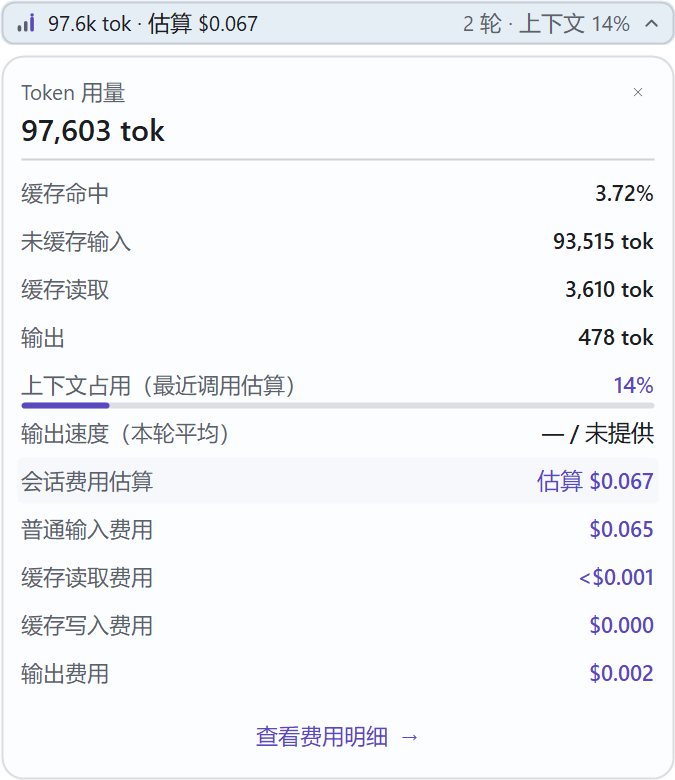
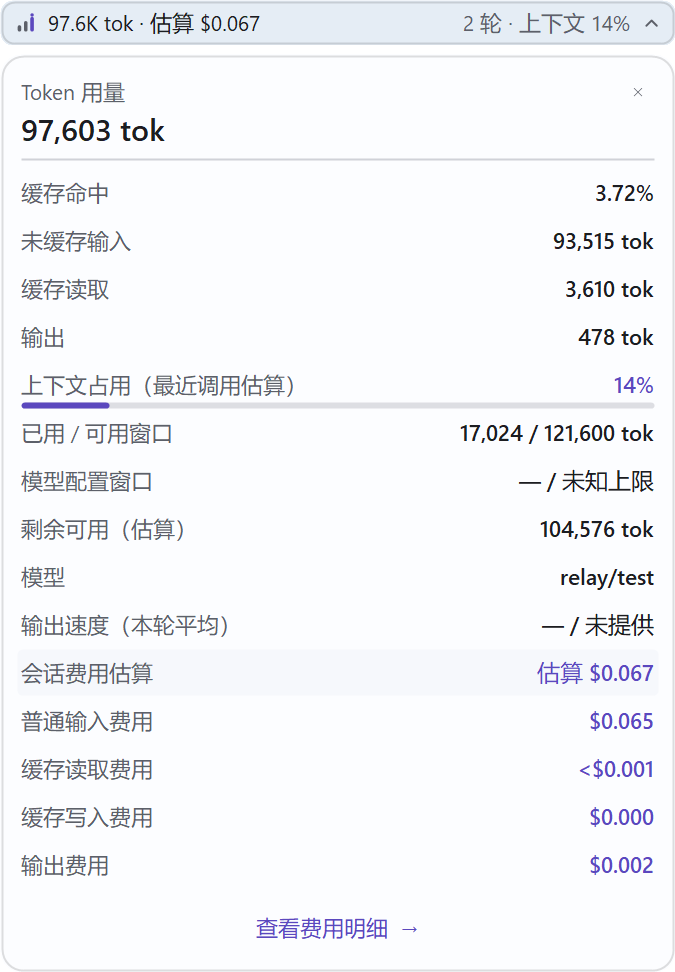
docs: record the 1.3.12 delivery verification and local deployment
The acceptance record now covers the context-window feature end to end: the
baseline (5c12bfa) self-test at 557 checks against 604 after the change, the
live and toolbar probe deltas, the full 848-check release verification, the
rollback rehearsal (revert applies clean and reproduces the baseline tree byte
for byte), the artifact hashes and the local deployment state. The deployment
note now names the current entry version, and the verification guide gains the
packaging pitfall that cost one publish run: a package directory left behind by
an interrupted publish makes the incremental dotnet publish skip the scripts/
content next to the EXE, which Verify's startup check catches, so a re-publish
starts from a removed directory.

Previews were regenerated by the release packaging and now show the context
block in the expanded and cost panels plus the overview board.

The release is local only: nothing was pushed, tagged or published to GitHub.

Changed region(s): [[0.0, 0.0, 1.0, 0.9231], [0.3733, 0.9231, 0.5911, 0.9846]]

diff --git a/ACCEPTANCE.zh-CN.md b/ACCEPTANCE.zh-CN.md
@@ -1,6 +1,21 @@
 # 交付验证记录
 
-版本 1.3.10，Windows x64，2026-10-12。以下区分本次检查、历史版本记录，以及待实际操作的场景。
+版本 1.3.12，Windows x64，2026-10-12。以下区分本次检查、历史版本记录，以及待实际操作的场景。
+
+## 1.3.12 上下文用量完整块与可用窗口的目录回退
+
+本地日志里的 `model_context_window` 只覆盖一部分中转模型：缺失或记录为零时，悬浮条此前显示“未知上限”，占比与剩余都不可用，也无从知道占比除以的是哪个上限。本轮补全上下文块，并在日志没有窗口时按完整模型 ID 从当前数据根的模型目录推导；同时按 2026-10-12 的核实结论修正口径——日志窗口已经是有效窗口（1M 目录模型实测报告 950,000），不应对它再乘一次 95%。
+
+- 变更点：新增 ContextWindowCatalog（目录解析、纯函数解析器与内置映射，含核验日期）；TokenSnapshot 增加 ConfiguredWindowTokens／ContextWindowSource／ConfiguredWindowSource／ConfiguredWindowReference 与 RemainingContextTokens；TokenLogMonitor 在 `turn_context` 换模型时清空旧读数与窗口、Poll 出口做窗口投影、新增 `models_cache.json` 单文件观察者、SetRoot 重建目录缓存；OverlayPresentation 新增“已用 / 可用窗口”“模型配置窗口（目录／内置映射／目录参考）”“剩余可用（估算）”“模型”与块内“异常”行，token 紧凑格式改大写 K/M 并在进位后显示 1M，占比保留一位小数；OverlayContext、TokenStripForm、OverlayLayout 与设置版本未改。
+- 口径：可用窗口＝日志 `model_context_window`（大于零时直接采用）；否则目录按完整 slug 精确匹配（`context_window` 优先、缺失用 `max_context_window`）乘 `effective_context_window_percent`（缺失按 95%）向下取整；目录缺失或目录行不可用时回退内置映射（核验 2026-10-12，含中转前缀条目）；都没有则显示“未知上限”，占比与剩余显示 —，已用量照常显示。目录推导值与日志不一致时配置窗口标“（目录参考）”，计算仍用日志值；`auto_compact_token_limit` 不当作窗口。
+- 三段对照：基线提交 5c12bfa 自检 557 项零失败；修改后工作树 604 项零失败（新增 47 项：目录解析与优先级、95% 预留与非法比例、1M 与 272K、目录参考、未知上限、超限、压缩后读数下降、模型切换清空、只有目录变化时的刷新、数据根切换、字段去重与唯一进度条、异常行归属、24 dip 行高下限与放不下时折叠、格式边界与展示探针字段）。实时探针由 73 项增至 75 项（生产控制器按目录解析窗口、只有 `models_cache.json` 变化时也刷新）；工具栏交互由 67 项增至 69 项（浅深色上下文块渲染核对行高与面板容纳全部行）。
+- 完整发布验证：604 项合成、20 项原生窗口、36 项费用窗口、69 项工具栏交互、8 项剪贴板恢复、1 项移除通知、75 项实时更新及跟随、33 项启动设置、2 项无控制台检查，共 848 项零失败；x64 GUI PE，构建零警告零错误。
+- 发布过程记录：首次发布在剪贴板探针处连续三次命中全局剪贴板竞争（“所请求的剪贴板操作失败”，重跑即通过），按失败即停中止；中止后的包目录残留让增量 `dotnet publish` 跳过 EXE 旁 `scripts/` 的复制，删除残留目录后全新发布通过（Verify 的启动检查会拦下这类残缺包）。已把“重新发布先删除包目录”写入验证流程文档。
+- 回滚：在临时工作树对 a0acfb1 执行 revert，20 个条目干净应用、无冲突；回滚树与基线 5c12bfa 逐字节一致（`git diff` 为空）、构建零警告零错误、自检回到 557 项零失败；本机 1.3.10 包保留，把两个快捷方式指回即可回退。
+- 文档：CHANGELOG 1.3.12；README.zh-CN 数字口径新增“可用窗口”“模型配置窗口”行；CONTEXT 新增可用窗口／配置窗口／目录参考词条并修订上下文占用；architecture 模块表加入窗口解析；codex-integration 新增“模型目录（models_cache.json）”小节；cost-and-speed 修订上下文口径；verification 记录新检查与发布注意事项；预览由发布流程重新生成（expanded／cost／overview 与 toolbar-context）。
+- 提交与发布：改动提交为 a0acfb1（feat），同批交付 5c12bfa（chore：清理已删除架构图的引用）；本轮只做本机发布与部署，未推送远端（本地领先 11 个提交）、未打标签、未创建 GitHub Release；1.3.11 未单独部署，其改动随本包一并交付。
+- 发布产物：包内 CodexRelayUsage.exe 的 ProductVersion 为 1.3.12+a0acfb1f9abef113803a437ab42d85509f6a5c68，EXE SHA256 = 8e4dcff2…（49,915,362 字节）；独立版 ZIP SHA256 = d4b969a5…（46,786,225 字节），源码 ZIP SHA256 = c4316845…（2,642,135 字节）。
+- 本机部署：桌面“Codex 用量助手.lnk”（描述更新为 1.3.12）与登录“Codex 用量自动启动.lnk”均指向 1.3.12 包，运行实例已由新包启动（旧 1.3.10 实例已退出），重复启动立即退出；scripts/Test-LoginStartup.ps1 的 9 项登录入口检查通过（未重启 Codex）；旧 1.3.10 包保留作回退，部署记录见本机 artifacts，未上传。
 
 ## 1.3.10 等待提示分档、短空窗绑定恢复与可选页面状态诊断
 

diff --git a/docs/verification.md b/docs/verification.md
@@ -11,13 +11,14 @@ dotnet publish .\src\CodexTokenOverlay\CodexTokenOverlay.csproj -c Release -r wi
 - `dotnet publish` 通过 csproj 的发布项把 `Install-CodexStartup.ps1` 与 `Install-Startup-Package.vbs` 复制到发布目录的 `scripts/`，因此上面的 publish → Verify 命令可直接运行。
 - 完整发布走 `\scripts\Publish-Local.ps1 -DotnetPath dotnet`：自包含 x64 EXE、独立 ZIP、源码 ZIP、SHA256 与预览图。
 - `Publish-Local.ps1` 的预览步骤包含实时探针：生成 `previews/cost-related-live.png`（浅色／深色），即修复后明细窗口跟随成员追加的验证截图。
+- 重新发布同一版本前先删除已有的 `artifacts\CodexRelayUsage-<版本>-win-x64` 目录：中断过的发布留下的目录会让增量 `dotnet publish` 跳过 EXE 旁 `scripts/` 的复制，Verify 的启动检查会因此失败；全新目录发布正常。
 - SDK 由 global.json 指定（已验证 10.0.401）；源码包包含 AGENTS.md、CONTEXT.md、docs 知识库 Markdown 与 .github/workflows，排除 bin/obj、SDK、用户设置与真实日志。
 
 ## 本机部署（开发机快捷方式）
 
 本机的悬浮条由两个快捷方式启动，二者都直接指向本机发布目录里的可执行文件，不是系统安装：桌面 `Codex 用量助手.lnk`（手动入口），以及登录启动项 `%APPDATA%\Microsoft\Windows\Start Menu\Programs\Startup\Codex 用量自动启动.lnk`（由发布目录的 `scripts\Install-CodexStartup.ps1` 写入，托盘“开机启动”调用的也是它）。
 
-升级步骤：`Publish-Local.ps1` 产出 `artifacts\CodexRelayUsage-<版本>-win-x64\` → 把桌面快捷方式指向新目录的 `CodexRelayUsage.exe` → 运行新目录的 `scripts\Install-CodexStartup.ps1`，由它刷新登录启动项并启动新版；旧目录保留，回滚时把两个入口指回去即可。2026-10-12 已按此把两个入口从 1.3.7 切到 1.3.8。日常启动请走快捷方式或双击 EXE（`explorer.exe CodexRelayUsage.exe` 等价）；不要从其它进程里以子进程方式启动悬浮条——它会随启动它的进程所在的作业一起退出，2026-10-12 实测脚本启动的实例在 Codex 重启时一并消失。
+升级步骤：`Publish-Local.ps1` 产出 `artifacts\CodexRelayUsage-<版本>-win-x64\` → 把桌面快捷方式指向新目录的 `CodexRelayUsage.exe` → 运行新目录的 `scripts\Install-CodexStartup.ps1`，由它刷新登录启动项并启动新版；旧目录保留，回滚时把两个入口指回去即可。2026-10-12 已按此多次更新（从 1.3.7 起步，最近一次从 1.3.10 切到 1.3.12）。日常启动请走快捷方式或双击 EXE（`explorer.exe CodexRelayUsage.exe` 等价）；不要从其它进程里以子进程方式启动悬浮条——它会随启动它的进程所在的作业一起退出，2026-10-12 实测脚本启动的实例在 Codex 重启时一并消失。
 
 ## 验证要求
 
